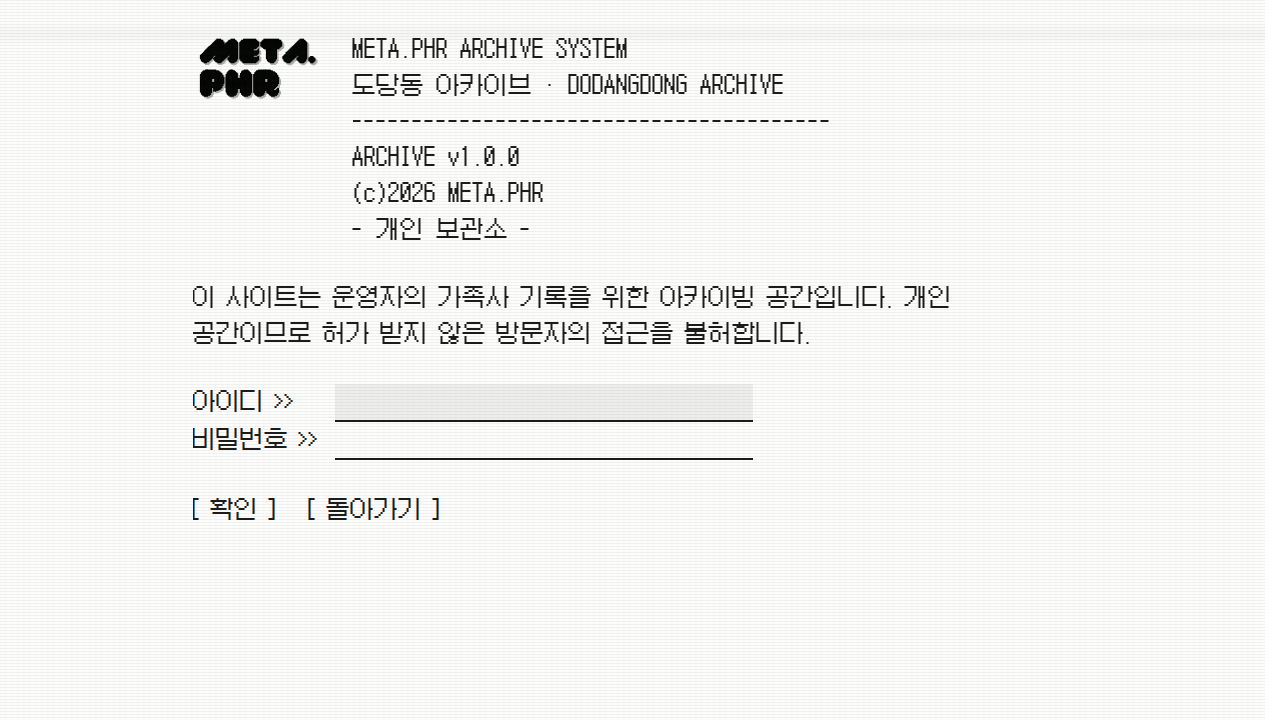
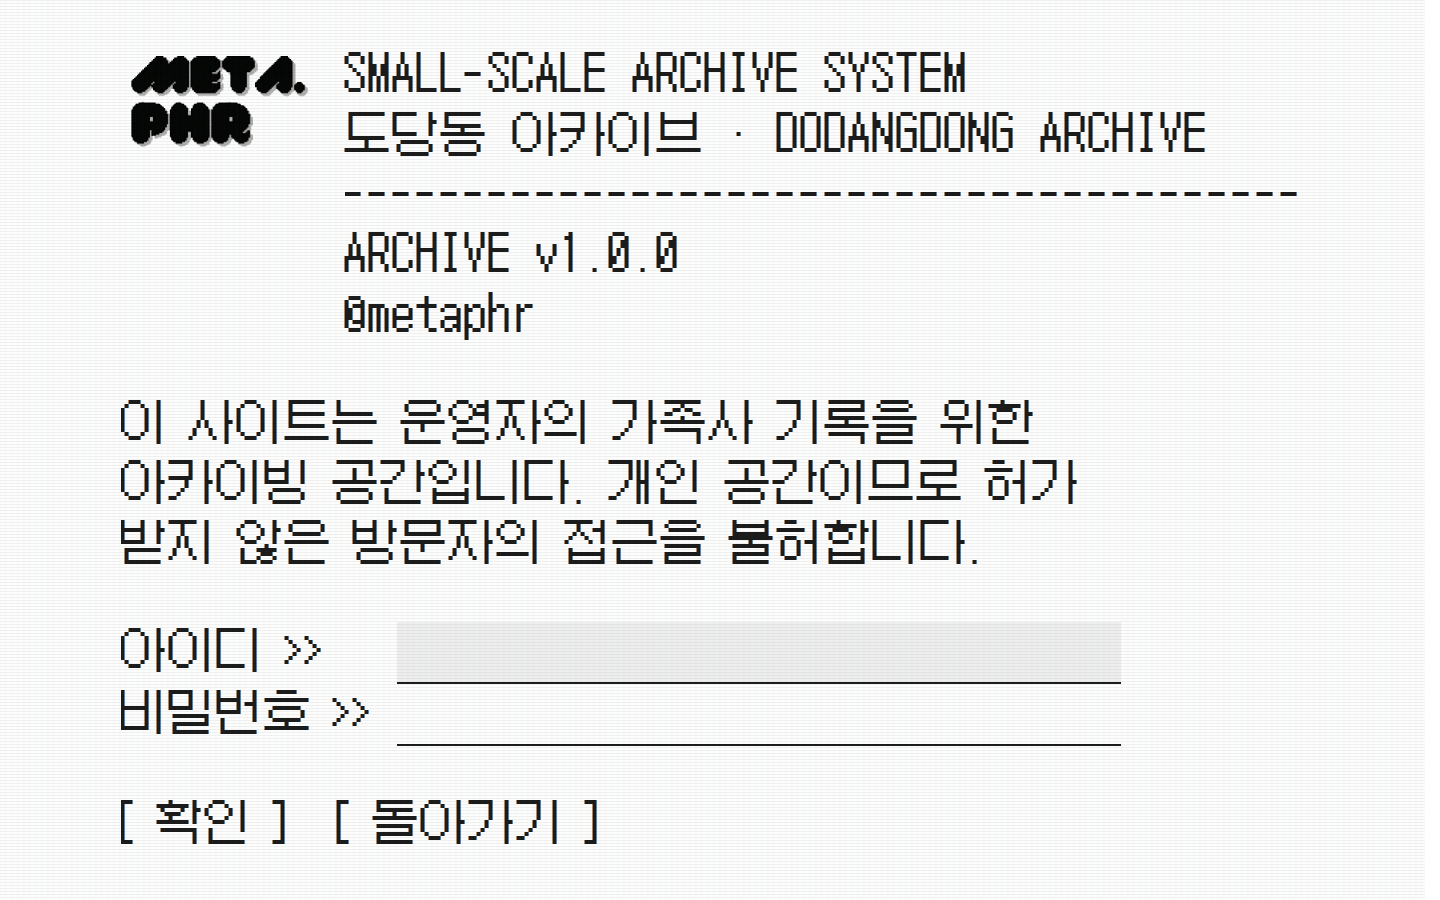
인트로를 창 한가운데 놓고 글자를 두 배로 키운다
머리글 문구도 고친다: META.PHR ARCHIVE SYSTEM → SMALL-SCALE ARCHIVE
SYSTEM, (c)2026 META.PHR → ©metaphr, "- 개인 보관소 -" 는 뺀다.

크기는 24/36 에서 48/60 으로 올린다. 그대로 두면 낮은 창에서 [입장] 이
화면 밖으로 밀리므로, 높이 800px 이하에서는 36/48, 너비 900px 이하에서는
24/36 으로 내린다. 셋 다 갈무리의 12px 격자 위에 있다.

diff --git a/src/app/intro/intro.css b/src/app/intro/intro.css
@@ -13,11 +13,15 @@
 
   background: var(--intro-paper);
   color: var(--intro-ink);
-  /* 갈무리는 12px 격자다 — 24/36 이라야 픽셀이 산다 */
-  font: var(--text-body);
+  /* 갈무리는 12px 격자다 — 48/60 이라야 픽셀이 산다(한 픽셀이 4px) */
+  font: var(--text-display);
+  /* 단말기 화면을 창 한가운데 놓는다. 내용이 길면 위에서부터 그린다(safe) */
+  align-content: safe center;
+  justify-content: safe center;
+  display: grid;
   min-height: 100dvh;
   overflow: hidden;
-  padding: 32px 16px 64px;
+  padding: 32px 16px;
   position: relative;
 }
 
@@ -66,17 +70,18 @@
 }
 
 .intro-body {
-  margin: 0 auto;
-  max-width: 880px;
+  margin: 0;
+  max-width: 1280px;
+  width: 100%;
   overflow: hidden;
   position: relative;
   z-index: 1;
 }
 
-.intro-head { display: flex; gap: 32px; align-items: flex-start; margin-bottom: 32px; }
+.intro-head { display: flex; gap: 32px; align-items: flex-start; margin-bottom: 48px; }
 /* 좁은 화면에서 머리글이 잘리지 않게 — 줄을 바꾼다 */
 .intro-head > div { min-width: 0; overflow-wrap: anywhere; }
-.intro-logo { display: block; height: auto; width: 128px; }
+.intro-logo { display: block; height: auto; width: 192px; }
 .intro-head p, .intro-head h1 { font: inherit; margin: 0; }
 /* 기계가 제 이름을 대는 머리글 — 고정폭이라야 줄이 가지런하다 */
 .intro-head > div { font-family: var(--font-mono); }
@@ -87,7 +92,7 @@
 .intro-nav { display: flex; flex-wrap: wrap; gap: 0 32px; margin-bottom: 32px; }
 
 /* 한글은 낱말 단위로 끊는다 — "개/인 공간" 처럼 쪼개지지 않게 */
-.intro-msg { margin: 0 0 32px; max-width: 64ch; word-break: keep-all; }
+.intro-msg { margin: 0 0 48px; max-width: 32ch; word-break: keep-all; }
 
 /* 대괄호로 감싼 단말기 단추 */
 .intro-key {
@@ -107,7 +112,7 @@
 .intro-caret { display: inline-block }
 
 /* 로그인 — 테두리 없이 글자만, 밑줄로 칸을 표시한다 */
-.intro-form { display: grid; gap: 0 16px; grid-template-columns: auto 1fr; max-width: 560px; align-items: baseline; }
+.intro-form { display: grid; gap: 0 24px; grid-template-columns: auto 1fr; max-width: 1000px; align-items: baseline; }
 .intro-form label { white-space: nowrap }
 .intro-form input {
   background: none;
@@ -120,17 +125,26 @@
   padding: 0 4px;
 }
 .intro-form input:focus { outline: 0; background: rgba(0, 0, 0, 0.06) }
-.intro-keys { display: flex; gap: 32px; grid-column: 1 / -1; margin-top: 32px; }
-.intro-error { grid-column: 1 / -1; margin: 0 0 16px }
+.intro-keys { display: flex; gap: 48px; grid-column: 1 / -1; margin-top: 48px; }
+.intro-error { grid-column: 1 / -1; margin: 0 0 24px }
 .intro-error::before { content: "!! " }
 
-@media (max-width: 560px) {
-  .intro-head { gap: 16px }
-  .intro-logo { width: 96px }
-  .intro-form { grid-template-columns: 1fr }
-  /* 좁은 화면에서는 보조 글 크기로 — 갈무리 격자를 지킨다(15px) */
-  .intro { font: var(--text-body-sm) }
-  .intro-head > div, .intro-form input { font-family: var(--font-mono); font-size: 12px; line-height: 24px }
+/* 낮은 창에서는 한 단계 줄인다 — 48px 그대로면 [입장] 이 화면 밖으로 밀린다 */
+@media (max-height: 800px) {
+  .intro { font: var(--text-title) }
+  .intro-head > div, .intro-form input { font-size: 36px; line-height: 48px }
+  .intro-logo { width: 144px }
+}
+
+@media (max-width: 900px) {
+  .intro-head { gap: 24px; margin-bottom: 24px }
+  .intro-logo { width: 128px }
+  .intro-form { grid-template-columns: 1fr; gap: 0 }
+  .intro-keys { gap: 24px; margin-top: 24px }
+  .intro-msg { margin-bottom: 24px }
+  /* 좁은 화면에서는 본문 크기로 — 갈무리 격자를 지킨다(24px) */
+  .intro { font: var(--text-body); padding: 24px 16px }
+  .intro-head > div, .intro-form input { font-family: var(--font-mono); font-size: 24px; line-height: 36px }
 }
 
 /* 움직임을 줄여 달라고 한 사람에게는 정지 화면으로 */

diff --git a/src/app/intro/intro-terminal.tsx b/src/app/intro/intro-terminal.tsx
@@ -7,12 +7,11 @@ import { createClient } from '@/lib/supabase/client';
 const SEEN = 'dodangdong-intro-seen';
 
 const HEAD = [
-  'META.PHR ARCHIVE SYSTEM',
+  'SMALL-SCALE ARCHIVE SYSTEM',
   '도당동 아카이브 · DODANGDONG ARCHIVE',
   '----------------------------------------',
   'ARCHIVE v1.0.0',
-  '(c)2026 META.PHR',
-  '- 개인 보관소 -',
+  '©metaphr',
 ];
 
 export default function IntroTerminal({ next }: { next: string }) {
@@ -79,13 +78,13 @@ export default function IntroTerminal({ next }: { next: string }) {
           </div>
         </header>
 
-        <p className="intro-msg intro-line" style={{ '--i': 6 } as React.CSSProperties}>
+        <p className="intro-msg intro-line" style={{ '--i': 5 } as React.CSSProperties}>
           이 사이트는 운영자의 가족사 기록을 위한 아카이빙 공간입니다.
           개인 공간이므로 허가 받지 않은 방문자의 접근을 불허합니다.
         </p>
 
         {!asking ? (
-          <p className="intro-line" style={{ '--i': 7 } as React.CSSProperties}>
+          <p className="intro-line" style={{ '--i': 6 } as React.CSSProperties}>
             <button className="intro-key" type="button" onClick={() => setAsking(true)}>입장</button>
             {' '}
             <span className="intro-caret" aria-hidden>█</span>

diff --git a/DESIGN.md b/DESIGN.md
@@ -311,7 +311,11 @@
 녹색 형광체 대신 이 사이트의 종이색·먹색을 쓴다.
 
 글꼴도 갈무리다. 기계가 제 이름을 대는 머리글과 입력칸만 고정폭(GalmuriMono11)이고,
-사람에게 하는 말은 Galmuri11 이다. 크기는 24/36, 좁은 화면에서는 15/24 로 내린다.
+사람에게 하는 말은 Galmuri11 이다. 사이트에서 가장 큰 글자를 쓴다 — 48/60 이고,
+낮은 창(높이 800px 이하)에서는 36/48, 좁은 화면(900px 이하)에서는 24/36 으로 내린다.
+셋 다 갈무리의 12px 격자 위에 있다.
+
+단말기 화면은 **창 한가운데** 놓인다(가로·세로 모두). 글줄은 왼쪽에 맞춘다.
 
 **이 화면에만 허락한 예외는 하나뿐이다.** 다른 어떤 화면도 이것을 따라 하지 않는다.
 
@@ -423,7 +427,7 @@
 
 - 페이지는 가로로 넘치지 않는다. 옆 여백은 16px 이다.
 - **넓은 그림은 상자 안에서만 가로로 민다.** 생애 띠와 가계도가 그렇다. 처음에는 봐야 할 곳이 가운데에 온다(지금 연대, "나").
-- 인트로는 글자가 15/24 로 내려가고(머리글은 12/24), 로고가 96px 이 되며, 아이디·비밀번호 칸이 이름표 아래로 내려간다.
+- 인트로는 글자가 24/36 으로 내려가고, 로고가 128px 이 되며, 아이디·비밀번호 칸이 이름표 아래로 내려간다.
 - 히어로는 사진이 위, 글이 아래로 간다. 상세정보 표는 요소명이 위, 값이 아래로 간다. 녹취록은 시각이 말 위로 올라간다.
 
 ![히어로 — 좁은 화면](docs/design/part-hero-mobile.png)
